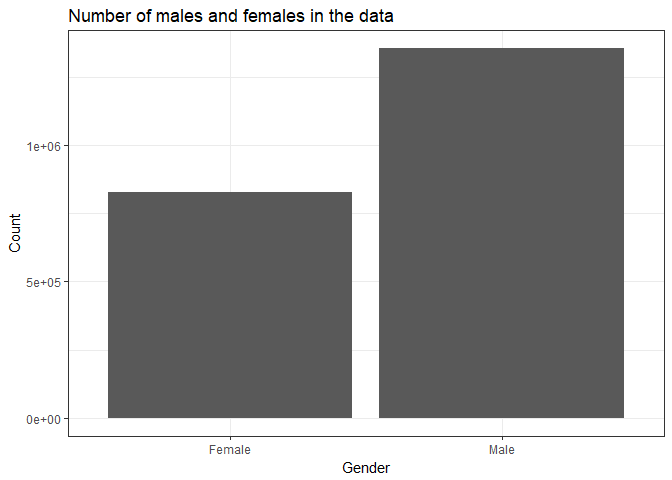
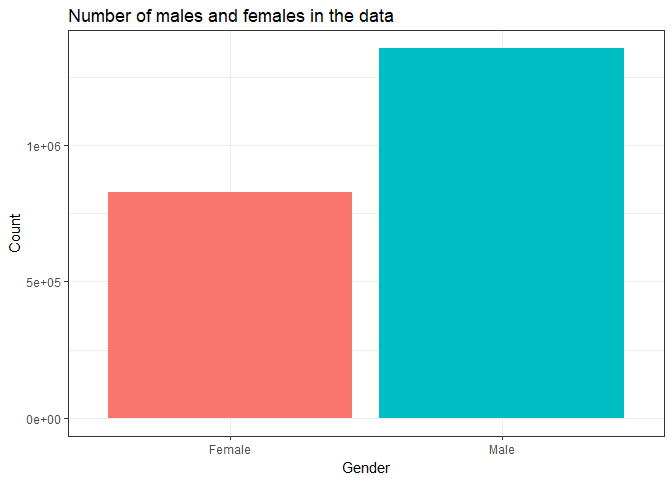
Fixed graphs visuals

diff --git a/Barbarisms.md b/Barbarisms.md
@@ -250,10 +250,11 @@ Let's look at how the genders are distributed:
 
 ``` r
 gender %>%
-  ggplot(aes(sex_factor)) +
+  ggplot(aes(sex_factor, fill = sex_factor)) +
   geom_bar() +
   labs(x = "Gender", y = "Count", title = "Number of males and females in the data") +
-  theme_bw()
+  theme_bw() + 
+  theme(legend.position="none")
 ```
 
 ![](Barbarisms_files/figure-markdown_github/gender%20plot-1.png)
@@ -262,10 +263,11 @@ Now, let's see how many of them used barbarisms:
 
 ``` r
 subset(gender, hasBar == 1) %>%
-  ggplot(aes(sex_factor)) +
+  ggplot(aes(sex_factor, fill = sex_factor)) +
   geom_bar() +
   labs(x = "Gender", y = "Count", title = "Number of users who used barbarisms by their gender") +
-  theme_bw()
+  theme_bw() +
+  theme(legend.position="none")
 ```
 
 ![](Barbarisms_files/figure-markdown_github/gender%20barbar-1.png)
